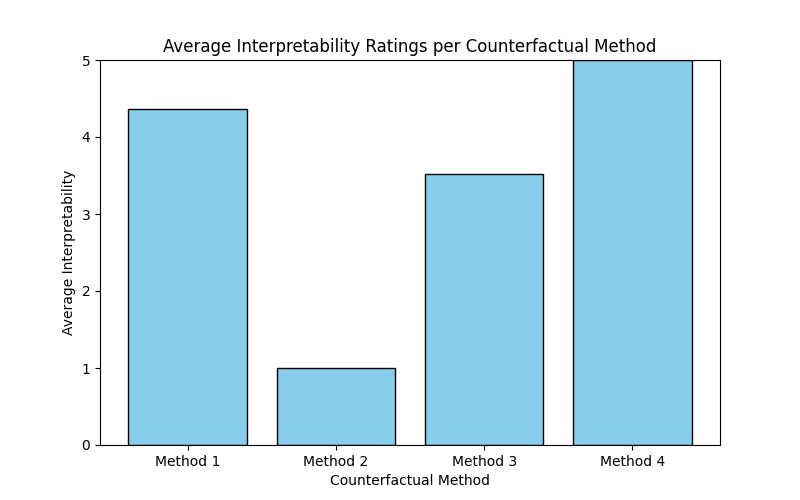
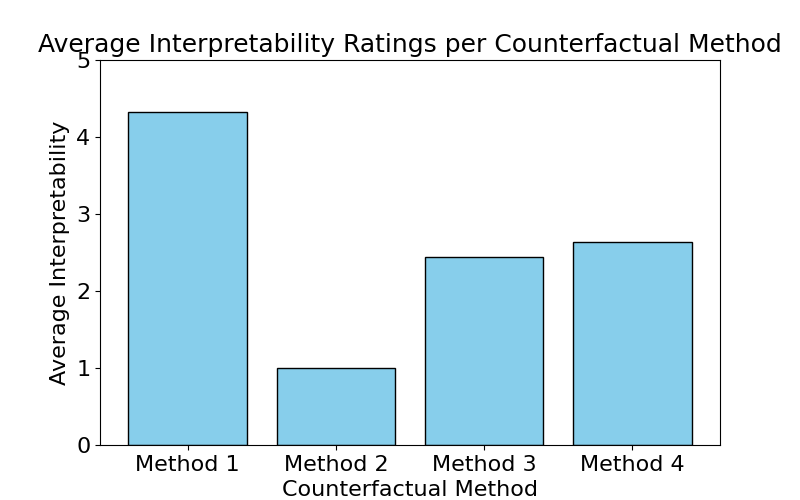
Enhanced visualizations and logging in analysis scripts; updated font sizes and improved plot aesthetics for clarity.

diff --git a/carla_dataset_collection/split_dataset.py b/carla_dataset_collection/split_dataset.py
@@ -15,8 +15,11 @@ def split_dataset(data_path, train_ratio=0.8):
     train_csv = os.path.join(train_folder, "train_data_log.csv")
     test_csv = os.path.join(test_folder, "test_data_log.csv")
 
+    # Ensure directories are created
     os.makedirs(train_folder, exist_ok=True)
+    logging.info(f"Train folder created: {train_folder}")
     os.makedirs(test_folder, exist_ok=True)
+    logging.info(f"Test folder created: {test_folder}")
 
     data_df = pd.read_csv(input_csv)
     total_images = len(data_df)
@@ -60,6 +63,9 @@ def split_dataset(data_path, train_ratio=0.8):
             dest_path = os.path.join(dest_folder, filename)
             if os.path.exists(source_path):
                 shutil.copy(source_path, dest_path)
+                logging.info(f"Copied {filename} to {dest_folder}")
+            else:
+                logging.warning(f"Source file {source_path} does not exist!")
 
     copy_files(train_df['image_filename'], data_path, train_folder)
     copy_files(test_df['image_filename'], data_path, test_folder)
@@ -72,8 +78,8 @@ def split_dataset(data_path, train_ratio=0.8):
     # Plotting the dataset split as a pie chart
     os.makedirs(os.path.join('..', 'plots', 'dataset_images'), exist_ok=True)
     plt.figure(figsize=(8, 5))
-    plt.pie([len(train_df), len(test_df)], labels=['Train', 'Test'], colors=['blue', 'orange'], autopct='%1.1f%%')
-    plt.title('Train/Test Split of Dataset')
+    plt.pie([len(train_df), len(test_df)], labels=['Train', 'Test'], colors=['blue', 'orange'], autopct='%1.1f%%', textprops={'fontsize': 12})
+    plt.title('Train/Test Split of Dataset', fontsize=14)
     plot_path = os.path.join('..', 'plots', 'dataset_images', 'dataset_split.png')
     plt.savefig(plot_path)
     logging.info(f"Dataset split plot saved to {plot_path}")
@@ -82,12 +88,12 @@ def split_dataset(data_path, train_ratio=0.8):
     plt.figure(figsize=(10, 5))
 
     plt.subplot(1, 2, 1)
-    plt.pie([train_stop_count, train_go_count], labels=['STOP', 'GO'], colors=['red', 'green'], autopct='%1.1f%%')
-    plt.title('Train Set Label Distribution')
+    plt.pie([train_stop_count, train_go_count], labels=['STOP', 'GO'], colors=['red', 'green'], autopct='%1.1f%%', textprops={'fontsize': 12})
+    plt.title('Train Set Label Distribution', fontsize=14)
 
     plt.subplot(1, 2, 2)
-    plt.pie([test_stop_count, test_go_count], labels=['STOP', 'GO'], colors=['red', 'green'], autopct='%1.1f%%')
-    plt.title('Test Set Label Distribution')
+    plt.pie([test_stop_count, test_go_count], labels=['STOP', 'GO'], colors=['red', 'green'], autopct='%1.1f%%', textprops={'fontsize': 12})
+    plt.title('Test Set Label Distribution', fontsize=14)
 
     plot_path = os.path.join('..', 'plots', 'dataset_images', 'train_test_label_distribution.png')
     plt.savefig(plot_path)

diff --git a/carla_dataset_collection/dataset_details.py b/carla_dataset_collection/dataset_details.py
@@ -4,6 +4,9 @@ import os
 import matplotlib.pyplot as plt
 import seaborn as sns
 
+# Increase font sizes globally
+plt.rcParams.update({'font.size': 12, 'axes.titlesize': 16, 'axes.labelsize': 14, 'xtick.labelsize': 12, 'ytick.labelsize': 12})
+
 def process_2_class_dataset(train_csv, test_csv):
     # Check if files exist
     if not os.path.exists(train_csv):
@@ -76,20 +79,20 @@ def plot_summary_with_pie(summary, dataset_type):
     test_counts = summary['Test Count'][:-1]
 
     # Create a figure with two subplots
-    fig, (ax1, ax2) = plt.subplots(1, 2, figsize=(12, 6))
+    fig, (ax1, ax2) = plt.subplots(1, 2, figsize=(12, 6), dpi=500)
 
     # Plot pie chart for Train dataset
-    ax1.pie(train_counts, labels=categories, autopct='%1.1f%%', startangle=90)
+    ax1.pie(train_counts, labels=categories, autopct='%1.1f%%', startangle=90, textprops={'fontsize': 16})
     ax1.axis('equal')  # Equal aspect ratio ensures that pie is drawn as a circle
-    ax1.set_title('Train Dataset')
+    ax1.set_title('Train Dataset', fontsize=16)
 
     # Plot pie chart for Test dataset
-    ax2.pie(test_counts, labels=categories, autopct='%1.1f%%', startangle=90)
+    ax2.pie(test_counts, labels=categories, autopct='%1.1f%%', startangle=90, textprops={'fontsize': 16})
     ax2.axis('equal')  # Equal aspect ratio ensures that pie is drawn as a circle
-    ax2.set_title('Test Dataset')
+    ax2.set_title('Test Dataset', fontsize=16)
 
     # Add a main title for the figure
-    plt.suptitle(f'{dataset_type} Distribution in Train and Test Datasets')
+    plt.suptitle(f'{dataset_type} Distribution in Train and Test Datasets', fontsize=22)
 
     # Adjust layout and save the plot
     plt.tight_layout()
@@ -106,9 +109,10 @@ def plot_table(summary, dataset_type):
         fmt='g',
         cmap='Blues',
         cbar=False,
-        linewidths=0.5
+        linewidths=0.5,
+        annot_kws={"size": 16}  # Increase annotation font size
     )
-    plt.title(f"{dataset_type} Dataset Details Table")
+    plt.title(f"{dataset_type} Dataset Details Table", fontsize=16)
     plt.tight_layout()
 
     # Save and show the table plot

diff --git a/Projects/counterfactual_comparison/analyze_responses.py b/Projects/counterfactual_comparison/analyze_responses.py
@@ -94,20 +94,28 @@ plt.grid(axis="y", linestyle="--", alpha=0.6)
 plt.tight_layout()
 bar_plot_path = os.path.join(output_dir, "bar_plot_user_evaluations.png")
 plt.savefig(bar_plot_path)
-plt.show()
 print(f"Bar plot saved: {bar_plot_path}")
 
 # ============================
 # Step 7: Heatmap Using Seaborn
 # ============================
-plt.figure(figsize=(8, 5))
-sns.heatmap(df_pivot, annot=True, cmap="coolwarm", linewidths=0.5, fmt=".2f")
-plt.title("User Evaluation Heatmap")
-plt.xlabel("Method")
-plt.ylabel("Evaluation Criterion")
+plt.figure(figsize=(12, 8))
+sns.heatmap(
+    df_pivot,
+    annot=True,
+    cmap="coolwarm",
+    linewidths=0.5,
+    fmt=".2f",
+    annot_kws={"fontsize": 14}
+)
+plt.title("User Evaluation Heatmap", fontsize=18)
+plt.xlabel("Method", fontsize=16)
+plt.ylabel("Evaluation Criterion", fontsize=16)
+plt.xticks(fontsize=14, rotation=30)
+plt.yticks(fontsize=14, rotation=0)
+plt.tight_layout()
 heatmap_path = os.path.join(output_dir, "heatmap_user_evaluations.png")
 plt.savefig(heatmap_path)
-plt.show()
 print(f"Heatmap saved: {heatmap_path}")
 
 # ============================
@@ -139,13 +147,14 @@ for metric in metrics:
     
     if ratings_filtered:  # Only plot if there are valid ratings
         plt.bar(methods_filtered, ratings_filtered, color="skyblue", edgecolor="black")
-        plt.xlabel("Counterfactual Method")
-        plt.ylabel(f"Average {metric}")
-        plt.title(f"Average {metric} Ratings per Counterfactual Method")
+        plt.xlabel("Counterfactual Method", fontsize=16)
+        plt.ylabel(f"Average {metric}", fontsize=16)
+        plt.title(f"Average {metric} Ratings per Counterfactual Method", fontsize=18)
+        plt.xticks(fontsize=16)
+        plt.yticks(fontsize=16)
         plt.ylim(0, 5)  # Ratings range from 1 to 5
         metric_plot_path = os.path.join(output_dir, f"{metric}_ratings.png")
         plt.savefig(metric_plot_path)
-        plt.show()
         print(f"Bar chart for {metric} saved: {metric_plot_path}")
     else:
         logging.warning(f"No valid ratings available for {metric}. Skipping plot.")
